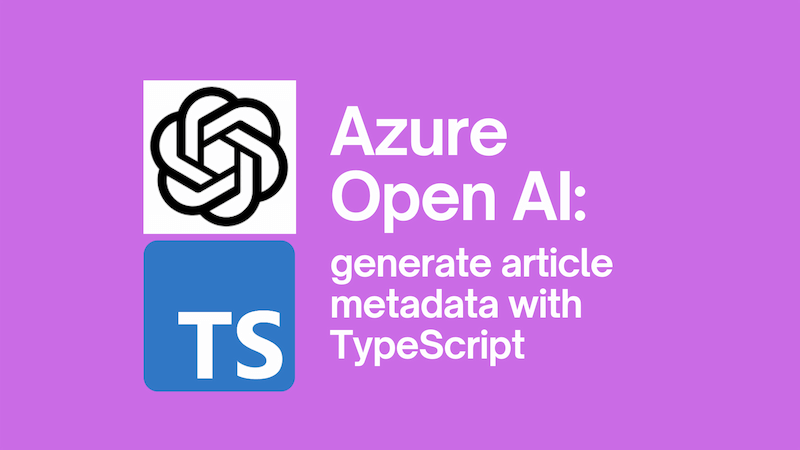
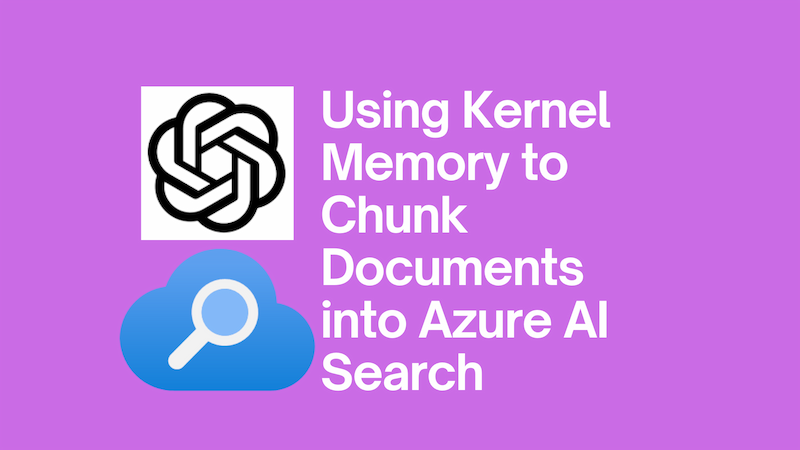
feat: image

Changed region(s): [[0.125, 0.1556, 0.7812, 0.8711]]

diff --git a/blog-website/blog/2024-04-22-using-kernel-memory-to-chunk-documents-into-azure-ai-search/index.md b/blog-website/blog/2024-04-22-using-kernel-memory-to-chunk-documents-into-azure-ai-search/index.md
@@ -10,7 +10,7 @@ hide_table_of_contents: false
 
 I've recently been working on building RAG (Retrieval Augmented Generation) experiences into applications; building systems where large language models (LLMs) can query documents. To achieve this, you first need a strategy to chunk those documents and make them LLM-friendly. [Kernel Memory](https://github.com/microsoft/kernel-memory), a sister project of [Semantic Kernel](https://github.com/microsoft/semantic-kernel) supports this.
 
-![title image reading "Azure Open AI: generate article metadata with TypeScript" with the Azure Open AI / TypeScript logos](title-image.png)
+![title image reading "Using Kernel Memory to Chunk Documents into Azure AI Search" with the Azure Open AI / Azure AI Search logos](title-image.png)
 
 <!--truncate-->
 
@@ -662,3 +662,5 @@ As you can see, this endpoint accepts files, uploads them to Blob Storage and ad
 ## Conclusion
 
 And that's it! You now have an ASP.NET application that can chunk documents in the background using Kernel Memory running in serverless mode. I haven't yet had the need to upgrade to the full Kernel Memory service. Perhaps the day will come, but the mileage you can get with just this approach is considerable.
+
+With thanks to David Rosevear and George Karsas for their help working on this mechanism.
